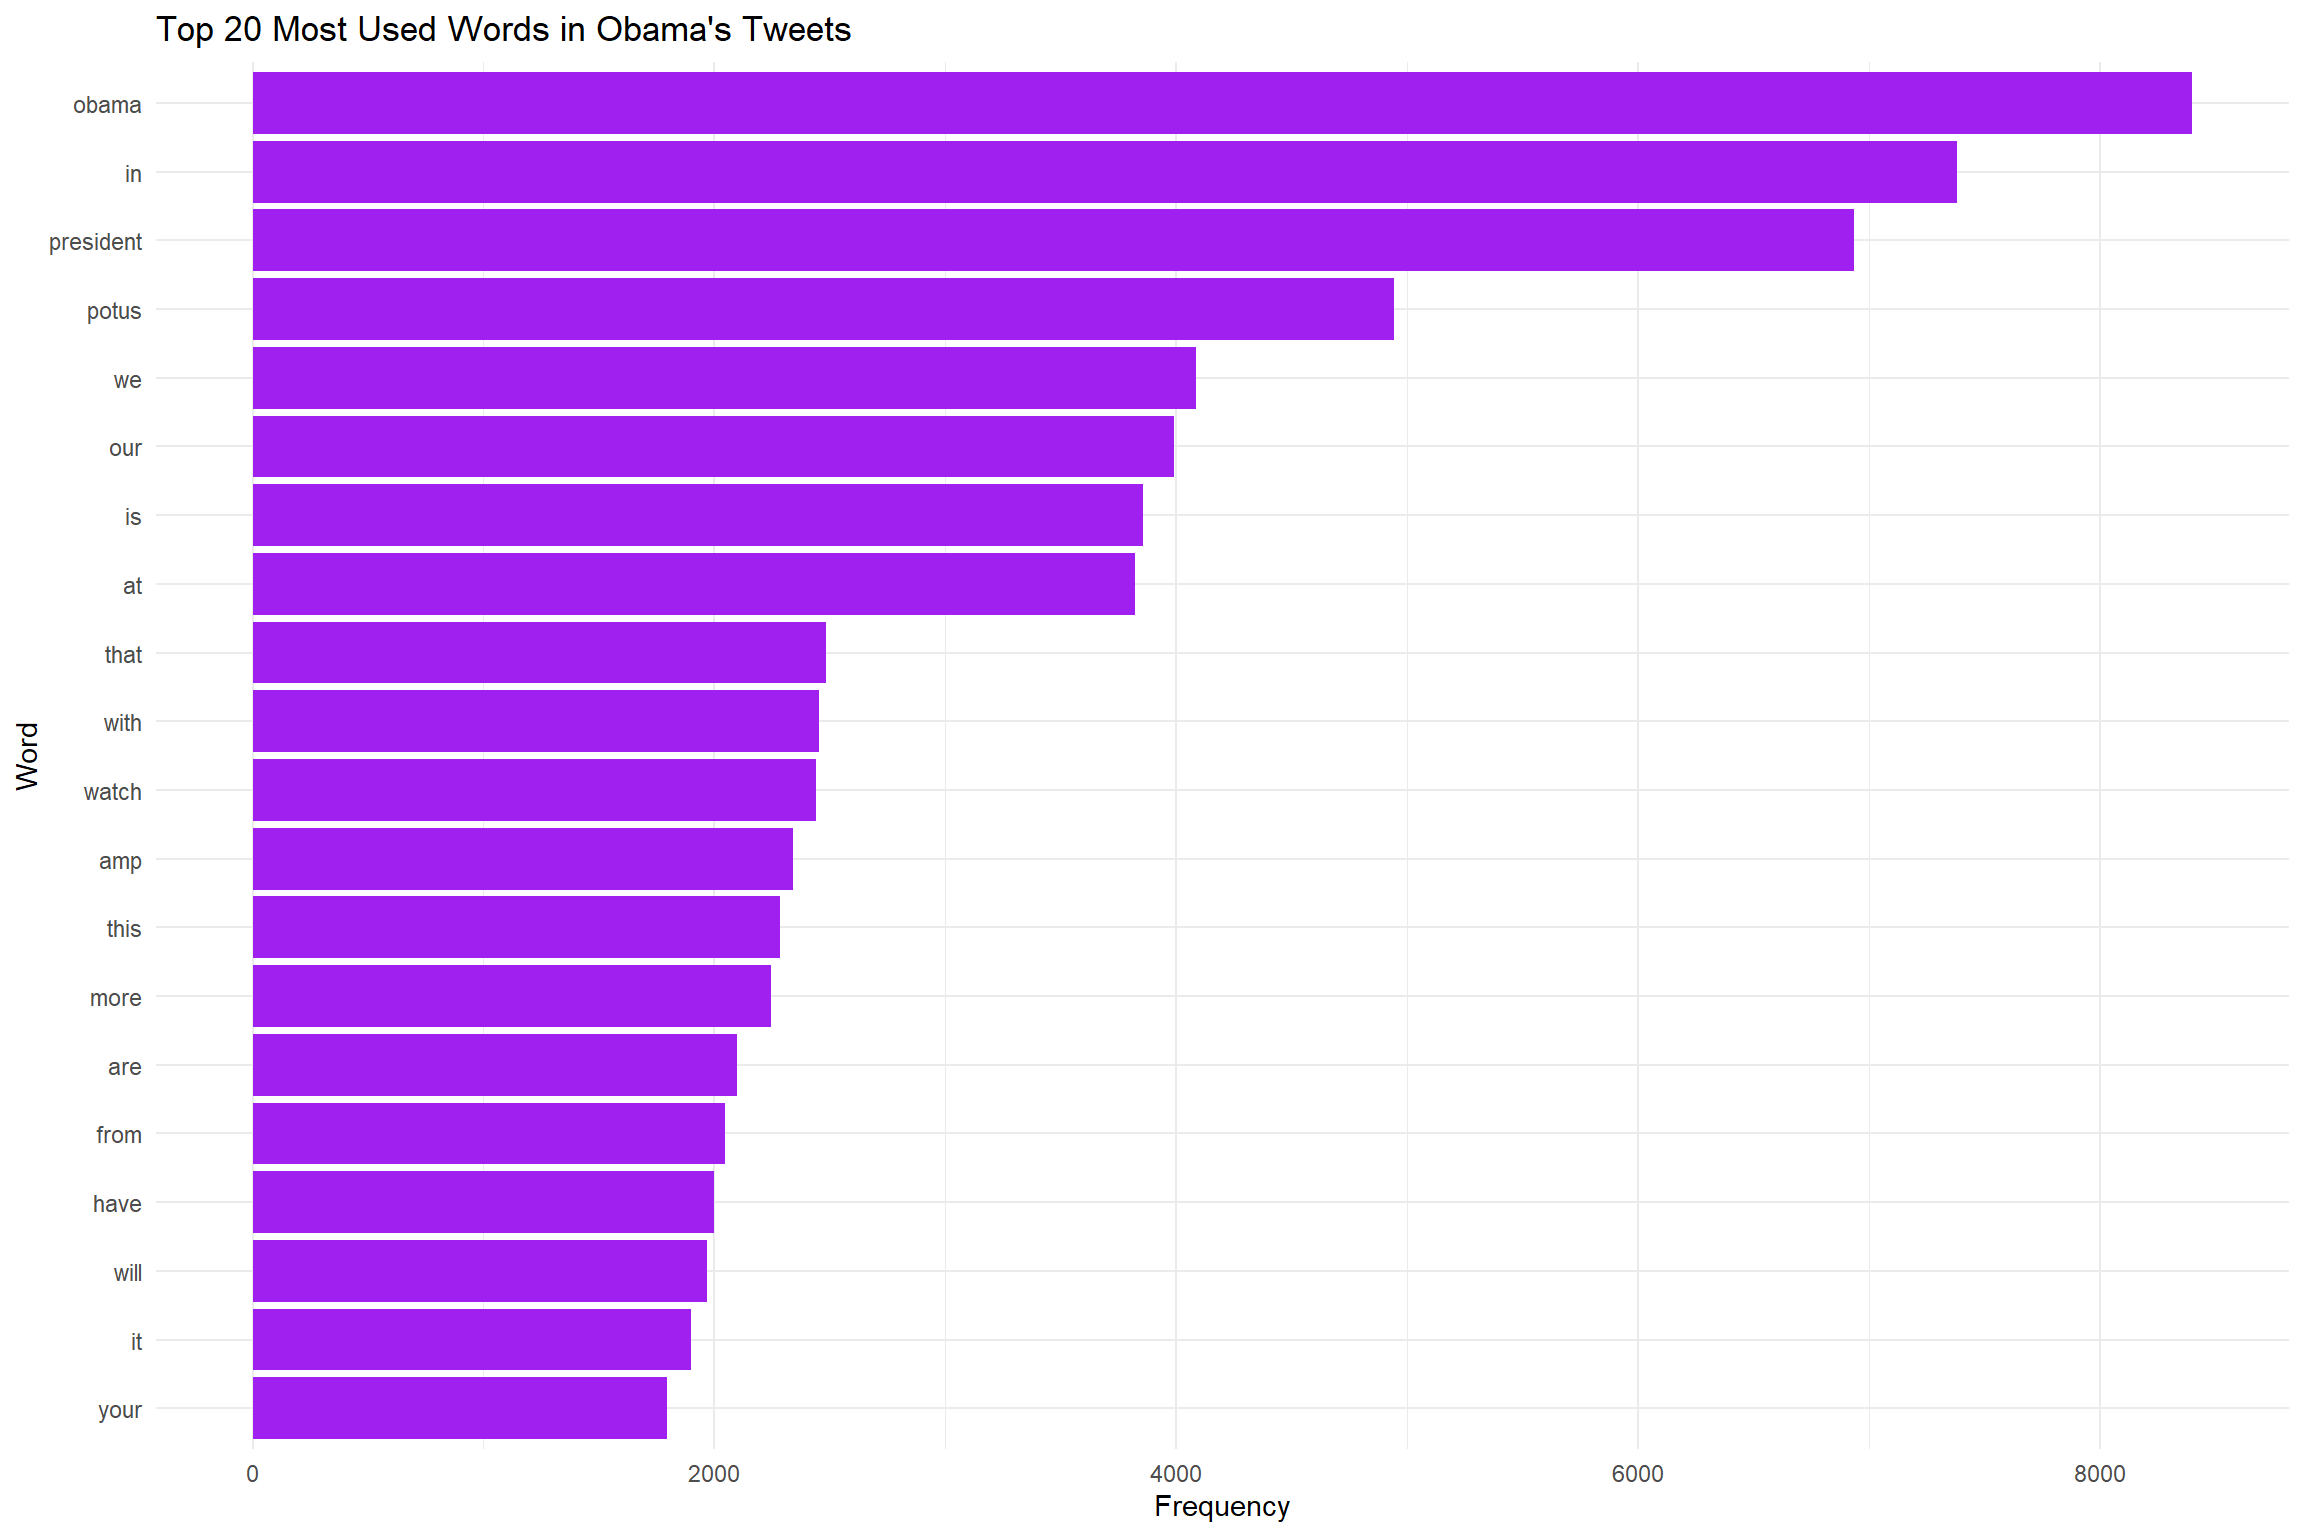
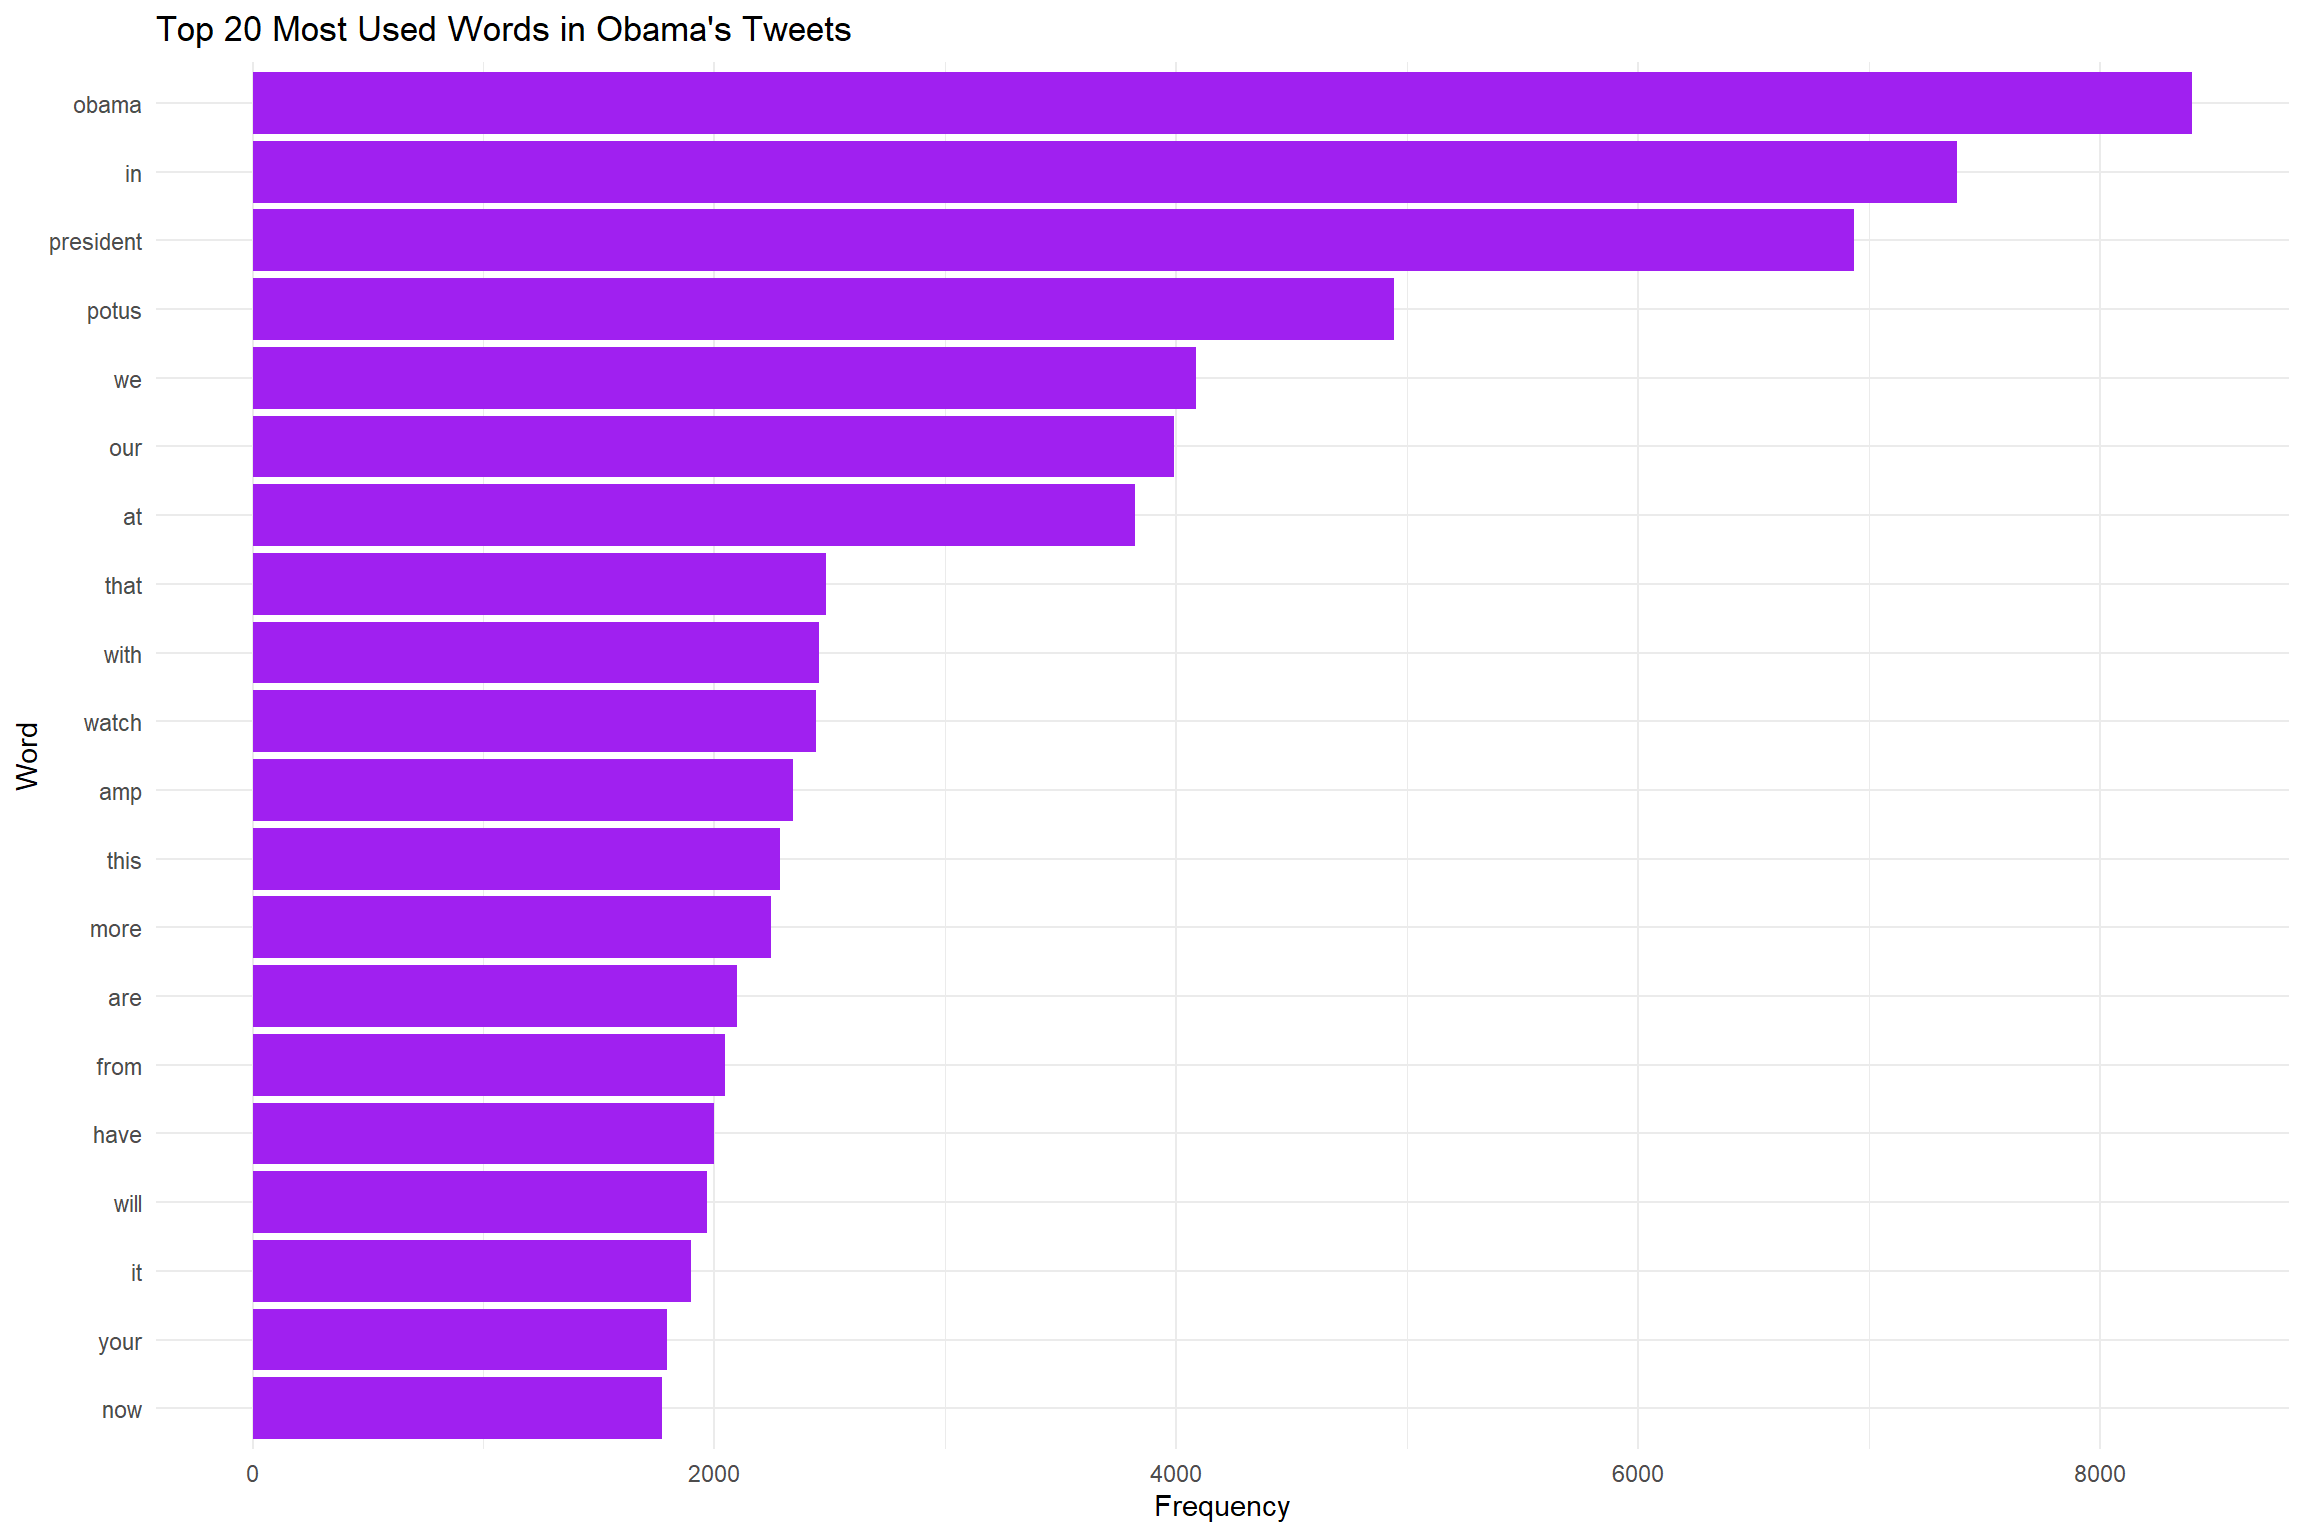
finalss

diff --git a/docs/Final.html b/docs/Final.html
@@ -309,7 +309,7 @@ Daniel Coker
 <li><strong>Common Words I Excluded:</strong> “you,” “the,” “to,” “and,” “a,” etc.</li>
 </ul>
 <div class="cell">
-<div class="sourceCode cell-code" id="cb5"><pre class="sourceCode numberSource r number-lines code-with-copy"><code class="sourceCode r"><span id="cb5-1"><a></a>exclude_words <span class="ot">&lt;-</span> <span class="fu">c</span>(<span class="st">"you"</span>, <span class="st">"the"</span>, <span class="st">"to"</span>, <span class="st">"and"</span>, <span class="st">"a"</span>, <span class="st">"for"</span>, <span class="st">"on"</span>, <span class="st">"of"</span>, <span class="st">"rt"</span>)</span>
+<div class="sourceCode cell-code" id="cb5"><pre class="sourceCode numberSource r number-lines code-with-copy"><code class="sourceCode r"><span id="cb5-1"><a></a>exclude_words <span class="ot">&lt;-</span> <span class="fu">c</span>(<span class="st">"you"</span>, <span class="st">"the"</span>, <span class="st">"to"</span>, <span class="st">"and"</span>, <span class="st">"a"</span>, <span class="st">"for"</span>, <span class="st">"on"</span>, <span class="st">"of"</span>, <span class="st">"rt"</span>, <span class="st">"is"</span>)</span>
 <span id="cb5-2"><a></a></span>
 <span id="cb5-3"><a></a>word_counts <span class="ot">&lt;-</span> tweets <span class="sc">|&gt;</span></span>
 <span id="cb5-4"><a></a>  <span class="fu">mutate</span>(<span class="at">text =</span> <span class="fu">str_to_lower</span>(text), <span class="at">text =</span> <span class="fu">str_replace_all</span>(text, <span class="st">"[^a-z</span><span class="sc">\\</span><span class="st">s]"</span>, <span class="st">""</span>)) <span class="sc">|&gt;</span></span>
